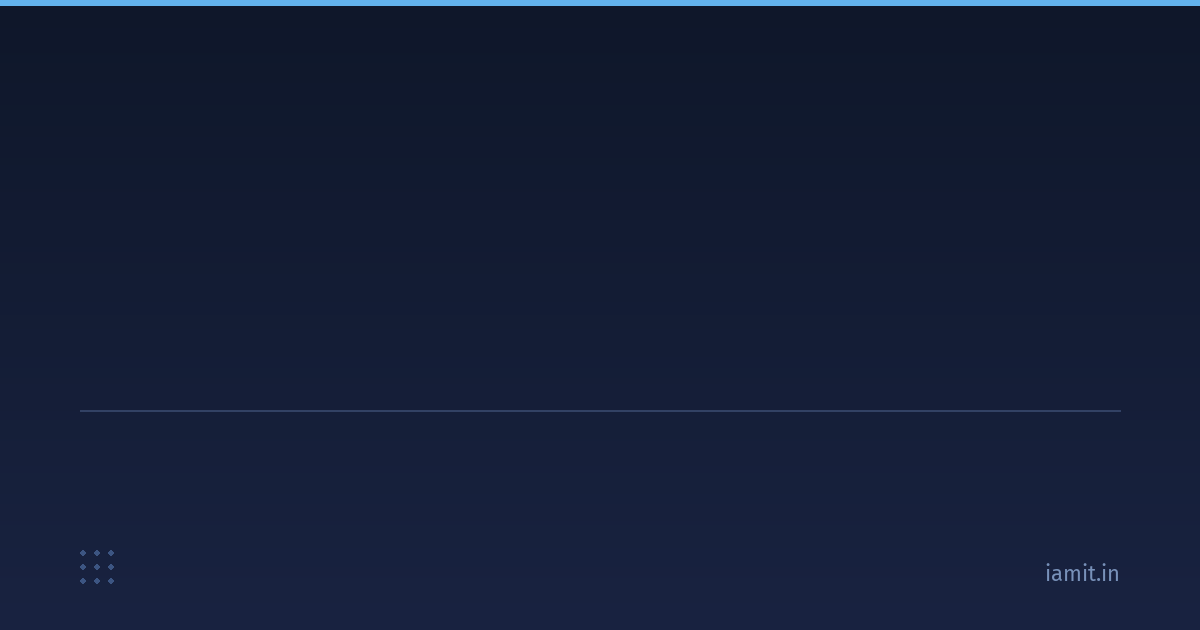
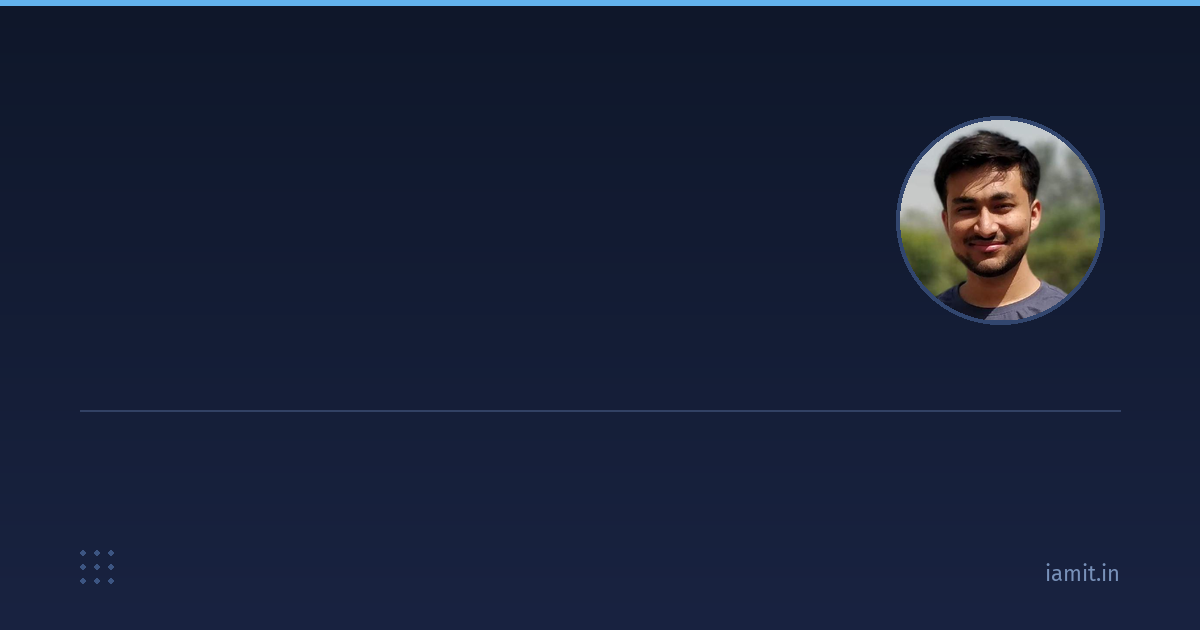
reproducible og image generation

Changed region(s): [[0.74, 0.181, 0.925, 0.5127]]

diff --git a/layouts/partials/opengraph.html b/layouts/partials/opengraph.html
@@ -23,7 +23,7 @@
     {{/* Title text */}}
     {{- $titleOpts := dict
       "color" "#e2e8f0"
-      "size" 52
+      "size" 64
       "linespacing" 12
       "x" 80
       "y" 80

diff --git a/scripts/generate_og_base.py b/scripts/generate_og_base.py
@@ -1,0 +1,125 @@
+#!/usr/bin/env python3
+# /// script
+# requires-python = ">=3.14"
+# dependencies = ["Pillow"]
+# ///
+"""Generate the base OG image template for Hugo blog posts.
+
+Creates a 1200x630px image with:
+- Dark navy gradient background
+- Light blue accent line at top
+- Separator line for metadata section
+- Circular author photo on the right
+- "iamit.in" branding at bottom right
+- Decorative dots at bottom left
+
+Usage:
+    uv run scripts/generate_og_base.py
+"""
+
+
+from pathlib import Path
+
+from PIL import Image, ImageDraw, ImageFont
+
+SCRIPT_DIR = Path(__file__).parent
+REPO_ROOT = SCRIPT_DIR.parent
+ASSETS_DIR = REPO_ROOT / "assets"
+FONTS_DIR = ASSETS_DIR / "fonts"
+OUTPUT_PATH = ASSETS_DIR / "og_base.png"
+AUTHOR_PHOTO = ASSETS_DIR / "author.jpg"
+
+WIDTH = 1200
+HEIGHT = 630
+
+
+def create_gradient(draw: ImageDraw.Draw) -> None:
+    for y in range(HEIGHT):
+        r = int(15 + (25 - 15) * y / HEIGHT)
+        g = int(23 + (35 - 23) * y / HEIGHT)
+        b = int(42 + (65 - 42) * y / HEIGHT)
+        draw.line([(0, y), (WIDTH, y)], fill=(r, g, b))
+
+
+def add_accent_line(draw: ImageDraw.Draw) -> None:
+    draw.rectangle([(0, 0), (WIDTH, 5)], fill=(99, 179, 237))
+
+
+def add_separator_line(draw: ImageDraw.Draw) -> None:
+    draw.rectangle([(80, 410), (WIDTH - 80, 411)], fill=(50, 65, 100))
+
+
+def add_author_photo(img: Image.Image) -> None:
+    photo = Image.open(AUTHOR_PHOTO)
+    photo_size = 200
+    photo = photo.resize((photo_size, photo_size), Image.LANCZOS)
+
+    # Circular mask
+    mask = Image.new("L", (photo_size, photo_size), 0)
+    mask_draw = ImageDraw.Draw(mask)
+    mask_draw.ellipse([(0, 0), (photo_size, photo_size)], fill=255)
+
+    # Border ring
+    border_size = 4
+    photo_x = WIDTH - photo_size - 100
+    photo_y = 120
+    ring_draw = ImageDraw.Draw(img)
+    ring_draw.ellipse(
+        [
+            (photo_x - border_size, photo_y - border_size),
+            (photo_x + photo_size + border_size, photo_y + photo_size + border_size),
+        ],
+        fill=(50, 70, 110),
+    )
+
+    img.paste(photo, (photo_x, photo_y), mask)
+
+
+def add_branding(draw: ImageDraw.Draw) -> None:
+    font_path = FONTS_DIR / "FiraSans-Regular.ttf"
+    try:
+        brand_font = ImageFont.truetype(str(font_path), 22)
+    except OSError:
+        brand_font = ImageFont.load_default()
+
+    brand_text = "iamit.in"
+    bbox = draw.textbbox((0, 0), brand_text, font=brand_font)
+    text_width = bbox[2] - bbox[0]
+    draw.text(
+        (WIDTH - text_width - 80, HEIGHT - 70),
+        brand_text,
+        fill=(120, 145, 185),
+        font=brand_font,
+    )
+
+
+def add_decorative_dots(draw: ImageDraw.Draw) -> None:
+    for i in range(3):
+        for j in range(3):
+            x = 80 + i * 14
+            y = HEIGHT - 80 + j * 14
+            draw.ellipse([(x, y), (x + 5, y + 5)], fill=(60, 85, 130))
+
+
+def generate() -> None:
+    ASSETS_DIR.mkdir(parents=True, exist_ok=True)
+
+    img = Image.new("RGB", (WIDTH, HEIGHT))
+    draw = ImageDraw.Draw(img)
+
+    create_gradient(draw)
+    add_accent_line(draw)
+    add_separator_line(draw)
+    add_author_photo(img)
+
+    # Re-create draw after pasting photo
+    draw = ImageDraw.Draw(img)
+    add_branding(draw)
+    add_decorative_dots(draw)
+
+    img.save(str(OUTPUT_PATH), "PNG")
+    print(f"Created {OUTPUT_PATH} ({WIDTH}x{HEIGHT})")
+
+
+if __name__ == "__main__":
+    generate()
